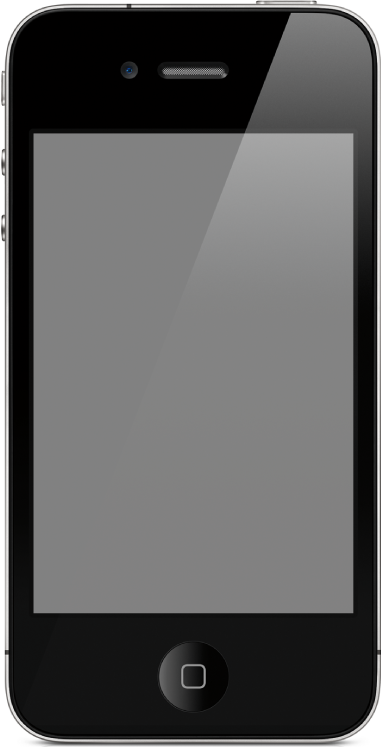
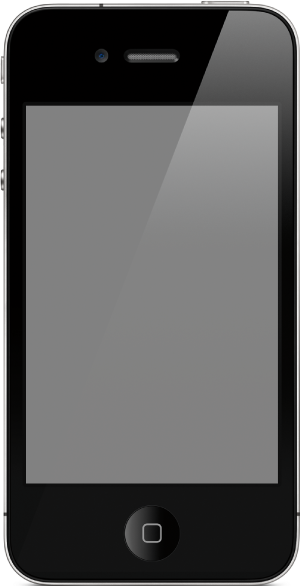
removed iphone, email

diff --git a/app/assets/stylesheets/homeindex.css b/app/assets/stylesheets/homeindex.css
@@ -76,6 +76,7 @@ div.emailform {
 	font-family: 'Yanone Kaffeesatz', arial, sans-serif;
 	font-size: 1.5em;
 	color: rgba(240,240,240,1);
+	display: none;
 }
 
 input.email {
@@ -95,6 +96,7 @@ input.submit {
 }
 
 input.email, input.submit {
+	display: none;
 	font-family: 'Yanone Kaffeesatz', arial, sans-serif;
     padding: 5px 2px 5px 4px;
     height: 38px;
@@ -187,11 +189,10 @@ span3 {
 /* image styles */
 
 img.iphone {
-	top: 15px;
-	right: 10px;
+	display: none;
+	top: 50px;
+	left: 70%;
 	position: absolute;
-   	width: 381px;
-   	height: 747px;
 }
 
 img.title {
@@ -219,6 +220,11 @@ img.title {
 	padding-bottom: 10%;
   }
   img.iphone {
+		top: 0px;
+	left:  0px;
 	position: relative;
+  }
+  input.email {
+	width: 99%;
 }
 }
